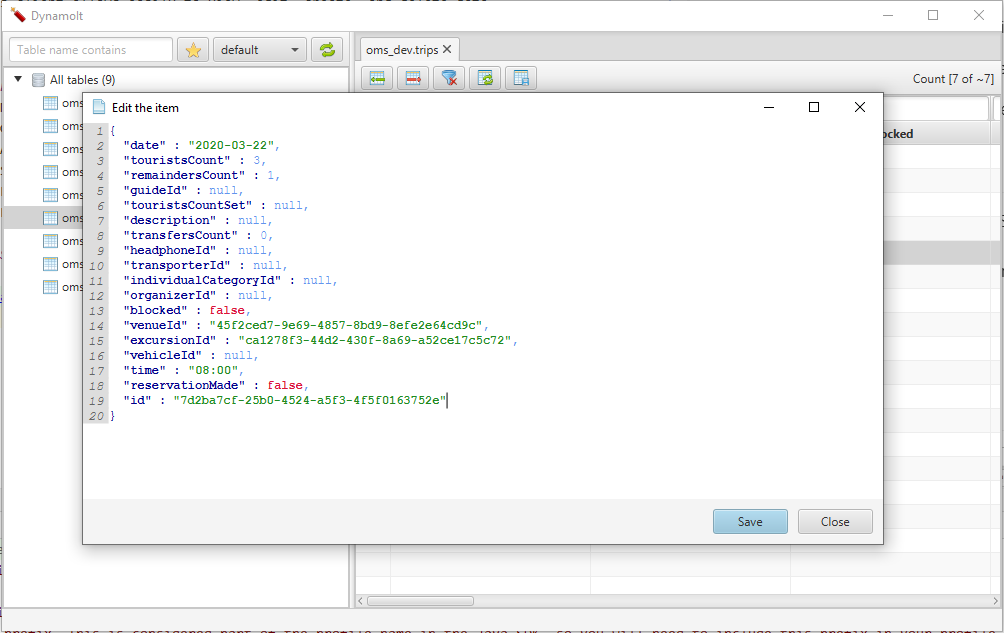
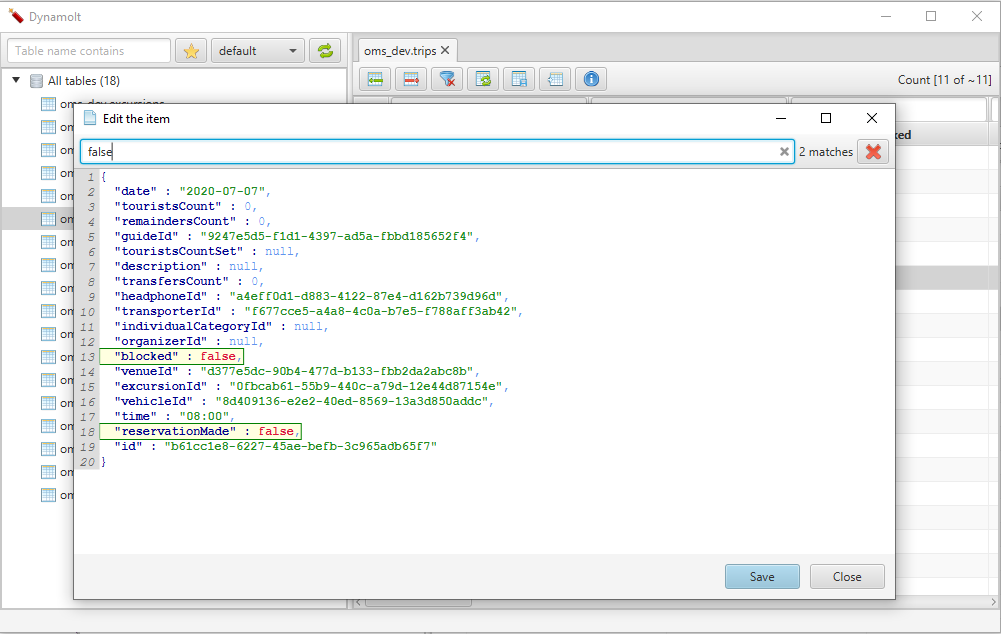
dynamoit-4 Search in the edit document dialog

Changed region(s): [[0.0, 0.0, 1.0, 1.0], [0.0, 0.9905, 0.6194, 1.0], [0.0, 0.8404, 0.031, 0.9605]]

diff --git a/src/main/java/ua/org/java/dynamoit/components/tablegrid/ItemDialog.java b/src/main/java/ua/org/java/dynamoit/components/tablegrid/ItemDialog.java
@@ -22,7 +22,6 @@ import io.reactivex.disposables.Disposable;
 import io.reactivex.rxjavafx.observables.JavaFxObservable;
 import io.reactivex.rxjavafx.observers.JavaFxObserver;
 import io.reactivex.rxjavafx.schedulers.JavaFxScheduler;
-import io.reactivex.schedulers.Schedulers;
 import javafx.geometry.Insets;
 import javafx.scene.Node;
 import javafx.scene.control.*;
@@ -32,16 +31,21 @@ import javafx.scene.input.KeyEvent;
 import javafx.scene.layout.HBox;
 import javafx.scene.layout.Priority;
 import javafx.scene.layout.VBox;
+import javafx.scene.paint.Color;
 import javafx.stage.Modality;
 import javafx.stage.Stage;
 import javafx.util.Pair;
 import org.controlsfx.control.textfield.TextFields;
 import org.fxmisc.flowless.VirtualizedScrollPane;
+import org.fxmisc.richtext.Selection;
+import org.fxmisc.richtext.SelectionImpl;
 import org.reactfx.EventStream;
 import org.reactfx.Subscription;
 import ua.org.java.dynamoit.components.jsoneditor.JsonEditor;
 import ua.org.java.dynamoit.utils.DX;
 
+import java.util.ArrayList;
+import java.util.Collection;
 import java.util.List;
 import java.util.concurrent.TimeUnit;
 import java.util.concurrent.atomic.AtomicInteger;
@@ -55,33 +59,47 @@ public class ItemDialog extends Dialog<String> {
     private final ToolBar toolBar;
     private Subscription validationSubscribe;
     private final JsonEditor textArea = new JsonEditor();
-    private TextField searchField;
+    private final TextField searchField = TextFields.createClearableTextField();
     private Disposable focusDisposable;
+    private final List<Selection<Collection<String>, String, Collection<String>>> selections = new ArrayList<>();
 
     public ItemDialog(String title, String json, Function<EventStream<String>, EventStream<Boolean>> validator) {
         this.setTitle(title);
 
+        Observable<List<Pair<Integer, String>>> matches = JavaFxObservable.changesOf(this.searchField.textProperty())
+                .debounce(100, TimeUnit.MILLISECONDS)
+                .map(stringChange -> {
+                            AtomicInteger index = new AtomicInteger(0);
+                            return textArea.getText().lines()
+                                    .map(line -> new Pair<>(index.getAndIncrement(), line))
+                                    .filter(pair -> !pair.getValue().isBlank() && !stringChange.getNewVal().isBlank() && pair.getValue().contains(stringChange.getNewVal()))
+                                    .collect(Collectors.toList());
+                        }
+                )
+                .observeOn(JavaFxScheduler.platform());
+
+        matches.subscribe(list -> {
+            cleanAllSelections();
+            list.forEach(line -> {
+                Integer key = line.getKey();
+                textArea.moveTo(key, 0);
+                Selection<Collection<String>, String, Collection<String>> selection = new SelectionImpl<>("match" + key, textArea, path -> {
+                    path.setStroke(Color.GREEN);
+                    path.setStrokeWidth(1);
+                    path.setHighlightFill(Color.LIGHTYELLOW);
+                });
+                textArea.addSelection(selection);
+                selection.selectRange(key, 0, key, line.getValue().length());
+                selections.add(selection);
+            });
+        });
+
         this.toolBar = DX.toolBar(toolBar -> List.of(
-                DX.create(TextFields::createClearableTextField, textField -> {
-                    this.searchField = textField;
+                DX.create(() -> this.searchField, textField -> {
                     HBox.setHgrow(textField, Priority.ALWAYS);
-                    textField.textProperty().addListener((observable, oldValue, newValue) -> {
-                        AtomicInteger index = new AtomicInteger();
-                        List<Pair<Integer, String>> matches = textArea.getText().lines()
-                                .map(line -> new Pair<>(index.getAndIncrement(), line))
-                                .filter(pair -> pair.getValue().contains(newValue))
-                                .collect(Collectors.toList());
-                    });
                 }),
                 DX.create(Label::new, label -> {
-                    Observable<String> count = JavaFxObservable.changesOf(this.searchField.textProperty())
-                            .map(stringChange -> textArea.getText().lines()
-                                    .filter(line -> line.contains(stringChange.getNewVal()))
-                                    .collect(Collectors.toList()))
-                            .map(list -> list.size() + " matches");
-
-                    label.textProperty().bind(JavaFxObserver.toBinding(count));
-
+                    label.textProperty().bind(JavaFxObserver.toBinding(matches.map(list -> list.size() + " matches")));
                 }),
                 DX.create(Button::new, button -> {
                     button.setTooltip(new Tooltip("Hide toolbar"));
@@ -147,13 +165,19 @@ public class ItemDialog extends Dialog<String> {
         });
     }
 
+    private void cleanAllSelections() {
+        selections.forEach(selection -> {
+            selection.deselect();
+            textArea.removeSelection(selection);
+        });
+        selections.clear();
+    }
 
     private void showToolbar() {
         if (!this.mainBox.getChildren().contains(this.toolBar)) {
             this.mainBox.getChildren().add(0, this.toolBar);
 
-            focusDisposable = Observable.timer(10, TimeUnit.MILLISECONDS)
-                    .subscribeOn(Schedulers.io())
+            focusDisposable = Observable.timer(100, TimeUnit.MILLISECONDS)
                     .observeOn(JavaFxScheduler.platform())
                     .subscribe(aLong -> this.searchField.requestFocus());
         }
@@ -163,5 +187,7 @@ public class ItemDialog extends Dialog<String> {
         this.mainBox.getChildren().remove(this.toolBar);
         this.textArea.requestFocus();
         this.focusDisposable.dispose();
+        this.searchField.clear();
+        this.cleanAllSelections();
     }
 }
